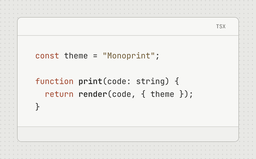
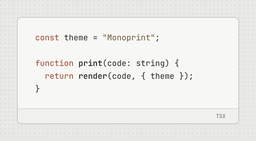
Polish the studio UI and move the Monoprint language label to the footer (#24)
## What changed

**Studio motion and theme toggle** (earlier commits on this branch)
- Adds motion to the studio with gpui-motion.
- Clicking the selected theme again switches it between its light and
dark variants.

**Inspector and export controls**
- Moves the "Copy as terminal command" button out of the canvas header
and into the export row as an icon button.
- Renames the theme appearance control to **Variant** (Light / Dark). It
now spans the full width, and the theme browser filters match its
labels. The app-interface toggle's tooltip now says it changes only the
app interface.
- Adds a preset menu to Width (480–1200 px) as well as Padding, using
one shared `preset_input`.
- Makes field and Scale labels 11px in `ink2`, raises the contrast of
the `muted` token in both palettes, and lines the THEME header up with
the 40px toolbars.
- Widens the inspector to 22% of the window, clamped to 276–316px.

**Monoprint theme**
- Moves the language label from the top bar into the previously empty
footer band.
- Hides the top bar when the snippet has no title
(`#capture[data-untitled]`).
- Regenerates the bundled Monoprint previews with
`examples/gui_thumbnails.rs`.

## Reviewer notes
- Untitled Monoprint exports are now shorter because they no longer have
the top bar. Titled exports keep the same size, and the 1000×750
dimension test still passes.
- In `tests/studio.rs`, the source/canvas split maximum at 1100px
windows drops from 480 to 464, because the inspector is wider.
[…]

diff --git a/assets/originals/monoprint.css b/assets/originals/monoprint.css
@@ -3,7 +3,8 @@
 .Monoprint__mast,.Monoprint__foot{display:flex;align-items:center;justify-content:space-between;flex-wrap:wrap;gap:8px;padding:var(--masthead-label-padding) var(--masthead-label-inset);font-family:CodeMono;font-size:var(--masthead-label-size);line-height:1.5;color:var(--monoprint-label);overflow-wrap:anywhere}
 .Monoprint__mast{min-height:var(--masthead-mast-height);border-bottom:1px solid var(--monoprint-rule)}
 .Monoprint__file{flex:1;min-width:0;font-size:var(--masthead-file-size);font-weight:650;letter-spacing:-.02em;color:var(--ink-foreground)}
-.Monoprint__language{max-width:50%}
+.Monoprint__language{max-width:50%;margin-left:auto;text-align:right}
+#capture[data-untitled] .Monoprint__mast{display:none}
 .Monoprint__foot{min-height:var(--masthead-foot-height);padding-top:var(--masthead-foot-padding);padding-bottom:var(--masthead-foot-padding);background:var(--monoprint-footer);border-top:1px solid var(--monoprint-rule)}
 .Monoprint__body{padding:var(--masthead-body-padding) var(--masthead-inset)}
 .Monoprint .Editor__formatted{padding:0;font-size:var(--masthead-code-size);line-height:var(--masthead-leading);letter-spacing:0}

diff --git a/apps/monoprint-gui/src/view.rs b/apps/monoprint-gui/src/view.rs
@@ -229,7 +229,7 @@ impl Studio {
                     .px(px(9.))
                     .text_size(px(11.))
                     // Reserve space for Copying… so feedback cannot resize Export.
-                    .w(px(110.))
+                    .w(px(98.))
                     .label(match self.copy_state {
                         CopyState::Idle => "Copy",
                         CopyState::Copying => "Copying…",
@@ -247,6 +247,7 @@ impl Studio {
                         IconName::Copy
                     }),
             )
+            .child(self.cli_command(cx))
     }
 
     fn drag_image(&self, cx: &Context<Self>) -> impl IntoElement {
@@ -898,7 +899,6 @@ impl Studio {
                     .bg(rgb(p.surface))
                     .window_control_area(WindowControlArea::Drag)
                     .gap(px(7.))
-                    .child(self.cli_command(cx))
                     .child(div().flex_1())
                     .when_some(
                         match self.viewport.zoom {
@@ -956,7 +956,12 @@ impl Studio {
                             } else {
                                 "Use light interface"
                             })
-                            .tooltip("Toggle interface appearance · ⌘⇧L")
+                            // The image's own light/dark lives under Theme › Variant.
+                            .tooltip(if p.light {
+                                "Dark app interface · ⌘⇧L"
+                            } else {
+                                "Light app interface · ⌘⇧L"
+                            })
                             .on_click(cx.listener(|this, _, window, cx| {
                                 this.toggle_ui_appearance(&ToggleUiAppearance, window, cx)
                             }))
@@ -1065,6 +1070,9 @@ impl Studio {
                 }
             });
         settings_section(p)
+            // The inspector has no toolbar row; center the first header on the
+            // 40px source and canvas toolbars beside it.
+            .pt(px(8.))
             .open(self.open_sections[InspectorSection::Theme as usize])
             .child(self.section_header(InspectorSection::Theme, "", cx))
             .content(
@@ -1140,22 +1148,26 @@ impl Studio {
             .parse::<ImageTheme>()
             .unwrap_or_default();
         has_light_and_dark(theme).then(|| {
-            row(
+            field(
                 p,
-                "Appearance",
-                segments(p).children(
+                "Variant",
+                segments(p).w_full().children(
                     [
-                        ("light-appearance", "light", Appearance::Light),
-                        ("dark-appearance", "dark", Appearance::Dark),
+                        ("light-appearance", "Light", Appearance::Light),
+                        ("dark-appearance", "Dark", Appearance::Dark),
                     ]
                     .into_iter()
                     .map(|(id, label, appearance)| {
                         let light = appearance == Appearance::Light;
                         segment(p, id)
+                            .flex_1()
                             .label(label)
                             .selected(self.document.light == light)
                             .toggled(self.document.light == light)
-                            .tooltip(format!("Use the {label} variant"))
+                            .tooltip(format!(
+                                "Render the image in the {} variant",
+                                label.to_lowercase()
+                            ))
                             .on_click(cx.listener(move |this, _, _, cx| {
                                 this.document.light = light;
                                 this.changed(cx);
@@ -1230,9 +1242,9 @@ impl Studio {
                             .child(
                                 segments(p).children(
                                     [
-                                        ("themes-all", "all", ThemeFilter::All),
-                                        ("themes-light", "light", ThemeFilter::Light),
-                                        ("themes-dark", "dark", ThemeFilter::Dark),
+                                        ("themes-all", "All", ThemeFilter::All),
+                                        ("themes-light", "Light", ThemeFilter::Light),
+                                        ("themes-dark", "Dark", ThemeFilter::Dark),
                                     ]
                                     .into_iter()
                                     .map(
@@ -1606,11 +1618,20 @@ impl Studio {
             )
     }
 
-    fn padding_input(&self, cx: &Context<Self>) -> impl IntoElement {
+    /// A pixel input with a presets menu, so Width and Padding behave alike.
+    fn preset_input(
+        &self,
+        state: &Entity<input::InputState>,
+        id: &'static str,
+        aria_label: &'static str,
+        menu_label: &'static str,
+        presets: &'static [u32],
+        cx: &Context<Self>,
+    ) -> impl IntoElement {
         let p = palette(cx);
-        let input = self.padding.clone();
-        text_input(p, &self.padding)
-            .aria_label("Image padding")
+        let input = state.clone();
+        text_input(p, state)
+            .aria_label(aria_label)
             .suffix(
                 div()
                     .flex()
@@ -1623,26 +1644,26 @@ impl Studio {
                             .child("px"),
                     )
                     .child(
-                        Button::new("padding-presets")
+                        Button::new(id)
                             .ghost()
                             .xsmall()
                             .size(px(18.))
                             .p_0()
                             .child(Icon::new(IconName::ChevronDown).size(px(14.)))
-                            .accessibility_label("Padding presets")
-                            .tooltip("Choose padding or type an exact value")
+                            .accessibility_label(menu_label)
+                            .tooltip("Choose a preset or type an exact value")
                             .smooth_hover(p, HoverStyle::Ghost)
                             .dropdown_menu_with_anchor(Anchor::TopRight, move |mut menu, _, cx| {
                                 let selected = input.read(cx).value().parse::<u32>().ok();
-                                for padding in [0u32, 16, 32, 64, 96] {
+                                for &preset in presets {
                                     let input = input.clone();
                                     menu = menu.item(
-                                        PopupMenuItem::new(format!("{padding} px"))
-                                            .checked(selected == Some(padding))
+                                        PopupMenuItem::new(format!("{preset} px"))
+                                            .checked(selected == Some(preset))
                                             .on_click(move |_, window, cx| {
                                                 input.update(cx, |state, cx| {
                                                     state.replace_all(
-                                                        padding.to_string(),
+                                                        preset.to_string(),
                                                         window,
                                                         cx,
                                                     )
@@ -1660,19 +1681,18 @@ impl Studio {
         let p = palette(cx);
         let studio = cx.entity();
         Popover::new("cli-command-popover")
-            .anchor(Anchor::TopLeft)
+            .anchor(Anchor::BottomRight)
             .trigger_style(StyleRefinement::default().flex_shrink_0())
             .trigger(
                 Button::new("cli-command")
                     .outline()
-                    .xsmall()
-                    .h(px(26.))
-                    .px(px(9.))
+                    .size(px(34.))
+                    .p_0()
                     .border_color(rgb(p.strong))
                     .bg(rgb(p.control))
-                    .label(">_ CLI")
-                    .accessibility_label("CLI command")
-                    .tooltip("Reproduce this image in your terminal")
+                    .child(Icon::new(IconName::SquareTerminal).size(px(16.)))
+                    .accessibility_label("Copy as terminal command")
+                    .tooltip("Copy as terminal command")
                     .smooth_hover(p, HoverStyle::Control),
             )
             .content(move |_, _, cx| {
@@ -1805,18 +1825,32 @@ impl Studio {
                                         field(
                                             p,
                                             "Width",
-                                            text_input(p, &self.width)
-                                                .aria_label("Image width")
-                                                .suffix(
-                                                    div()
-                                                        .text_color(rgb(p.muted))
-                                                        .text_size(px(11.))
-                                                        .child("px"),
-                                                ),
+                                            self.preset_input(
+                                                &self.width,
+                                                "width-presets",
+                                                "Image width",
+                                                "Width presets",
+                                                &[480, 640, 720, 960, 1200],
+                                                cx,
+                                            ),
                                         )
                                         .flex_1(),
                                     )
-                                    .child(field(p, "Padding", self.padding_input(cx)).flex_1()),
+                                    .child(
+                                        field(
+                                            p,
+                                            "Padding",
+                                            self.preset_input(
+                                                &self.padding,
+                                                "padding-presets",
+                                                "Image padding",
+                                                "Padding presets",
+                                                &[0, 16, 32, 64, 96],
+                                                cx,
+                                            ),
+                                        )
+                                        .flex_1(),
+                                    ),
                             )
                             .child(field(
                                 p,
@@ -1980,8 +2014,8 @@ impl Studio {
                                     .gap(px(9.))
                                     .child(
                                         div()
-                                            .text_size(px(12.))
-                                            .text_color(rgb(p.muted))
+                                            .text_size(px(11.))
+                                            .text_color(rgb(p.ink2))
                                             .child("Scale"),
                                     )
                                     .child(segments(p).flex_1().children(
@@ -2165,10 +2199,11 @@ fn field(p: Palette, label: &'static str, element: impl IntoElement) -> Div {
         .flex_shrink_0()
         .min_w_0()
         .gap(px(5.))
+        // Same label style as row(): one label voice across the inspector.
         .child(
             div()
-                .text_size(px(10.))
-                .text_color(rgb(p.muted))
+                .text_size(px(11.))
+                .text_color(rgb(p.ink2))
                 .child(label),
         )
         .child(element)
@@ -2219,6 +2254,6 @@ fn canvas_checker(p: Palette) -> impl IntoElement {
 fn pane_widths(width: f32) -> (f32, f32) {
     (
         (width * 0.22).clamp(240., 318.),
-        (width * 0.21).clamp(260., 300.),
+        (width * 0.22).clamp(276., 316.),
     )
 }

diff --git a/src/monoprint_theme.rs b/src/monoprint_theme.rs
@@ -40,7 +40,7 @@ pub(crate) fn frame(theme: &assets::Theme, style: &Style, lines: usize) -> Frame
         scaled(16.0).max(12.0),
         include_str!("../assets/originals/monoprint.css"),
         mast_height = scaled(56.0),
-        // Keep the strip's original height after removing its text labels.
+        // The foot carries the language label; the mast only the file name.
         foot_height = scaled(40.0).max(scaled(12.0).max(10.0) * 1.5 + scaled(10.0) * 2.0 + 1.0),
         label_padding = scaled(12.0),
         foot_padding = scaled(10.0),
@@ -49,9 +49,9 @@ pub(crate) fn frame(theme: &assets::Theme, style: &Style, lines: usize) -> Frame
     Frame {
         template: "<div class=\"Monoprint\" style=\"padding:__PADDING__px\">\
           <div class=\"Monoprint__page\">\
-            <div class=\"Monoprint__mast\"><div class=\"Monoprint__file\">__TITLE__</div><div class=\"Monoprint__language\">__LANGUAGE__</div></div>\
+            <div class=\"Monoprint__mast\"><div class=\"Monoprint__file\">__TITLE__</div></div>\
             <div class=\"Monoprint__body\">__CODE_IMAGES_EDITOR__</div>\
-            <div class=\"Monoprint__foot\" aria-hidden=\"true\"></div>\
+            <div class=\"Monoprint__foot\"><div class=\"Monoprint__language\">__LANGUAGE__</div></div>\
           </div></div>".into(),
         css,
     }

diff --git a/tests/monoprint_theme.rs b/tests/monoprint_theme.rs
@@ -48,7 +48,7 @@ fn default_monoprint_exports_both_approved_appearances() {
         for text in [
             "create.ts",
             "TypeScript",
-            "<div class=\"Monoprint__foot\" aria-hidden=\"true\"></div>",
+            "<div class=\"Monoprint__foot\"><div class=\"Monoprint__language\">TypeScript</div></div>",
             keyword,
             literal,
         ] {
@@ -129,7 +129,7 @@ fn monoprint_grows_with_wrapped_code_and_keeps_appearance_when_transparent() {
         assert_eq!(b.width(), 360);
         assert!(b.height() > a.height() + 12 * 29);
         let html = renderer.html(&long, &style).unwrap();
-        assert!(html.contains("<div class=\"Monoprint__foot\" aria-hidden=\"true\"></div>"));
+        assert!(html.contains("<div class=\"Monoprint__foot\"><div class=\"Monoprint__language\">TypeScript</div></div>"));
         assert!(html.contains("世界-and-__TITLE__.ts"));
         assert!(html.contains("class=\"line highlighted-line\" data-line=\"2\""));
         let clear = renderer

diff --git a/apps/monoprint-gui/src/appearance.rs b/apps/monoprint-gui/src/appearance.rs
@@ -38,7 +38,7 @@ impl Palette {
         strong: 0x4A4A47,
         ink: 0xECECE8,
         ink2: 0xC9C9C4,
-        muted: 0x94948E,
+        muted: 0xA3A39D,
         faint: 0x6A6A65,
         accent: 0x8298EA,
         control: 0x373735,
@@ -58,7 +58,7 @@ impl Palette {
         strong: 0xB9B9B4,
         ink: 0x2A2A28,
         ink2: 0x4A4A47,
-        muted: 0x7C7C77,
+        muted: 0x6B6B66,
         faint: 0xA2A29C,
         accent: 0x526FD2,
         control: 0xFBFBF9,

diff --git a/apps/monoprint-gui/tests/studio.rs b/apps/monoprint-gui/tests/studio.rs
@@ -1956,7 +1956,7 @@ mod macos {
                         s.preview.as_ref().unwrap().image.clone(),
                     )
                 });
-            let maximum = if width == 1440. { 560. } else { 480. };
+            let maximum = if width == 1440. { 560. } else { 464. };
             for (target, expected, label) in [
                 (440., 440., "wide"),
                 (2000., maximum, "max"),
